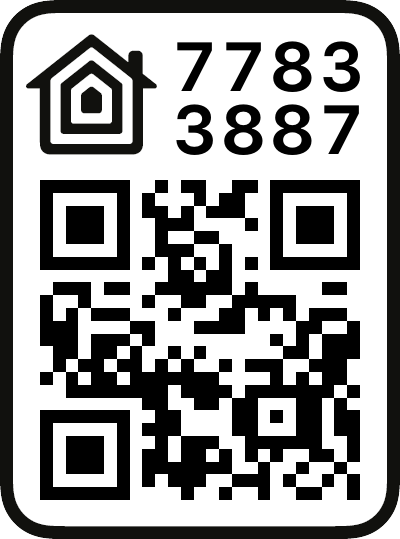
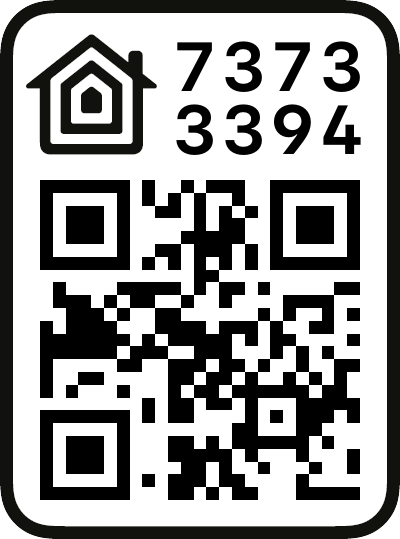
Update
Added new accessories

diff --git a/examples/security_system/main/main.c b/examples/security_system/main/main.c
@@ -34,8 +34,6 @@
 #include <homekit/homekit.h>
 #include <homekit/characteristics.h>
 
-#include <button.h>
-
 // WiFi setup
 void on_wifi_ready();
 
@@ -73,31 +71,17 @@ static void wifi_init() {
         ESP_ERROR_CHECK(esp_wifi_start());
 }
 
-#define BUTTON_GPIO CONFIG_ESP_BUTTON_GPIO
-
+// LED control
 #define LED_GPIO CONFIG_ESP_LED_GPIO
 bool led_on = false;
-
-#define RELAY_GPIO CONFIG_ESP_RELAY_GPIO
-bool relay_on = false;
-
-void lock_lock();
-void lock_unlock();
 
 void led_write(bool on) {
         gpio_set_level(LED_GPIO, on ? 1 : 0);
 }
-
-void relay_write(bool on) {
-        gpio_set_level(RELAY_GPIO, on ? 1 : 0);
-}
-
+// All GPIO Settings
 void gpio_init() {
         gpio_set_direction(LED_GPIO, GPIO_MODE_OUTPUT);
         led_write(led_on);
-
-        gpio_set_direction(RELAY_GPIO, GPIO_MODE_OUTPUT);
-        relay_write(relay_on);
 }
 
 // Accessory identification
@@ -119,99 +103,51 @@ void accessory_identify(homekit_value_t _value) {
         ESP_LOGI("ACCESSORY_IDENTIFY", "Accessory identify");
         xTaskCreate(accessory_identify_task, "Accessory identify", 2048, NULL, 2, NULL);
 }
-// Accessory identification
 
+void update_state();
 
+void on_update(homekit_characteristic_t *ch, homekit_value_t value, void *context) {
+        update_state();
+}
+homekit_characteristic_t security_system_current_state = HOMEKIT_CHARACTERISTIC_(SECURITY_SYSTEM_CURRENT_STATE, 0);
+homekit_characteristic_t security_system_target_state = HOMEKIT_CHARACTERISTIC_(SECURITY_SYSTEM_TARGET_STATE, 0, .callback=HOMEKIT_CHARACTERISTIC_CALLBACK(on_update));
 
-void button_callback(button_event_t event, void *context) {
-        switch (event) {
-        case button_event_single_press:
-                ESP_LOGI("SINGLE_PRESS", "single press");
-                lock_unlock();
-                break;
-        case button_event_double_press:
-                ESP_LOGI("DOUBLE_PRESS", "Double press");
+// 0 ”Stay Arm. The home is occupied and the residents are active. e.g. morning or evenings”
+// 1 ”Away Arm. The home is unoccupied”
+// 2 ”Night Arm. The home is occupied and the residents are sleeping”
+// 3 ”Disarmed”
+// 4 ”Alarm Triggered”
 
-                break;
-        case button_event_long_press:
-                ESP_LOGI("LONG_PRESS", "Long press");
-
-                break;
-        default:
-                ESP_LOGI("UNKNOWN_BUTTON_EVENT", "unknown button event: %d", event);
+void update_state() {
+        if (security_system_current_state.value.int_value != 1 && security_system_target_state.value.int_value == 1) {
+                security_system_current_state.value = HOMEKIT_UINT8(1);
+                ESP_LOGI("SECURITY_STYSTEM_AWAY_ARMED", "Security System Away - System Armed");
+                homekit_characteristic_notify(&security_system_current_state, security_system_current_state.value);
+        }
+        else if (security_system_current_state.value.int_value != 2 && security_system_target_state.value.int_value == 2) {
+                security_system_current_state.value = HOMEKIT_UINT8(2);
+                ESP_LOGI("SECURITY_STYSTEM_NIGHT_ARMED", "Security System Night - System Armed");
+                homekit_characteristic_notify(&security_system_current_state, security_system_current_state.value);
+        }
+        else if (security_system_current_state.value.int_value != 2 && security_system_target_state.value.int_value == 3) {
+                security_system_current_state.value = HOMEKIT_UINT8(3);
+                ESP_LOGI("SECURITY_STYSTEM_DISARMED", "Security System Night - System Disarmed");
+                homekit_characteristic_notify(&security_system_current_state, security_system_current_state.value);
+        }
+        else if (security_system_current_state.value.int_value != 2 && security_system_target_state.value.int_value == 4) {
+                security_system_current_state.value = HOMEKIT_UINT8(4);
+                printf("Security System Alarm Triggered.\n");
+                ESP_LOGI("SECURITY_STYSTEM_ALARM_TRIGGER", "Security System Alarm - Alarm trigger");
+                homekit_characteristic_notify(&security_system_current_state, security_system_current_state.value);
+        }
+        else if (security_system_current_state.value.int_value != 0 && security_system_target_state.value.int_value == 0) {
+                security_system_current_state.value = HOMEKIT_UINT8(0);
+                ESP_LOGI("SECURITY_STYSTEM_ARMED", "Security System Armed - System Armed");
+                homekit_characteristic_notify(&security_system_current_state, security_system_current_state.value);
         }
 }
 
-// The current state the physical security mechanism
-// 0 ”Unsecured” This state indicates that the lock is currently unsecured or unlocked. It means that the door or lock is not currently in a locked state.
-// 1 ”Secured” This state indicates that the lock is currently secured or locked. It means that the door or lock is in a locked state, providing security.
-// 2 ”Jammed” This state indicates that the lock is jammed or unable to move freely. It suggests that there might be a physical obstruction preventing the lock from functioning correctly.
-// 3 ”Unknown” This state indicates that the current state of the lock is unknown or cannot be determined. It might be used when the HomeKit system cannot reliably ascertain the current state of the lock.
-
-typedef enum {
-        lock_state_unsecured = 0,
-        lock_state_secured = 1,
-        lock_state_jammed = 2,
-        lock_state_unknown = 3,
-} lock_state_t;
-
-homekit_characteristic_t lock_current_state = HOMEKIT_CHARACTERISTIC_(LOCK_CURRENT_STATE,lock_state_unknown,);
-
-// The target state the physical security mechanism
-// 0 ”Unsecured” This state indicates that the lock is currently unsecured or unlocked. It means that the door or lock is not currently in a locked state.
-// 1 ”Secured” This state indicates that the lock is currently secured or locked. It means that the door or lock is in a locked state, providing security.
-
-void lock_target_state_setter(homekit_value_t value);
-
-homekit_characteristic_t lock_target_state = HOMEKIT_CHARACTERISTIC_(LOCK_TARGET_STATE,lock_state_secured,.setter=lock_target_state_setter,);
-
-void lock_target_state_setter(homekit_value_t value) {
-        lock_target_state.value = value;
-        if (value.int_value == lock_state_unsecured) {
-                lock_unlock();
-        } else {
-                lock_lock();
-        }
-}
-
-void lock_lock() {
-    relay_write(0);
-    led_write(0);
-    if (lock_current_state.value.int_value != lock_state_secured) {
-        lock_current_state.value = HOMEKIT_UINT8(lock_state_secured);
-        homekit_characteristic_notify(&lock_current_state, lock_current_state.value);
-    }
-}
-
-void lock_timeout() {
-    if (lock_target_state.value.int_value != lock_state_secured) {
-        lock_target_state.value = HOMEKIT_UINT8(lock_state_secured);
-        homekit_characteristic_notify(&lock_target_state, lock_target_state.value);
-    }
-    lock_lock();
-}
-
-void lock_init() {
-    lock_current_state.value = HOMEKIT_UINT8(lock_state_secured);
-    homekit_characteristic_notify(&lock_current_state, lock_current_state.value);
-    lock_timeout();
-}
-
-void lock_unlock() {
-    relay_write(1);
-    led_write(1);
-    lock_current_state.value = HOMEKIT_UINT8(lock_state_unsecured);
-    homekit_characteristic_notify(&lock_current_state, lock_current_state.value);
-    vTaskDelay(pdMS_TO_TICKS(1000 * CONFIG_ESP_LOCK_OPEN)); // Delay
-    lock_init();
-}
-
-//vTaskDelay(pdMS_TO_TICKS(1000 * CONFIG_ESP_LOCK_OPEN)); // Delay
-void lock_control_point(homekit_value_t value) {
-        // Nothing to do here
-}
-
-#define DEVICE_NAME "HomeKit Lock Mechanism"
+#define DEVICE_NAME "HomeKit Security System"
 #define DEVICE_MANUFACTURER "StudioPieters®"
 #define DEVICE_SERIAL "NLDA4SQN1466"
 #define DEVICE_MODEL "SD466NL/A"
@@ -223,10 +159,11 @@ homekit_characteristic_t serial = HOMEKIT_CHARACTERISTIC_(SERIAL_NUMBER, DEVICE_
 homekit_characteristic_t model = HOMEKIT_CHARACTERISTIC_(MODEL, DEVICE_MODEL);
 homekit_characteristic_t revision = HOMEKIT_CHARACTERISTIC_(FIRMWARE_REVISION, FW_VERSION);
 
+
 #pragma GCC diagnostic push
 #pragma GCC diagnostic ignored "-Woverride-init"
 homekit_accessory_t *accessories[] = {
-        HOMEKIT_ACCESSORY(.id = 1, .category = homekit_accessory_category_locks, .services = (homekit_service_t*[]) {
+        HOMEKIT_ACCESSORY(.id = 1, .category = homekit_accessory_category_security_systems, .services = (homekit_service_t*[]) {
                 HOMEKIT_SERVICE(ACCESSORY_INFORMATION, .characteristics = (homekit_characteristic_t*[]) {
                         &name,
                         &manufacturer,
@@ -236,27 +173,17 @@ homekit_accessory_t *accessories[] = {
                         HOMEKIT_CHARACTERISTIC(IDENTIFY, accessory_identify),
                         NULL
                 }),
-                HOMEKIT_SERVICE(LOCK_MECHANISM, .primary=true, .characteristics=(homekit_characteristic_t*[]){
-                        HOMEKIT_CHARACTERISTIC(NAME, "Lock Mechanism"),
-                        &lock_current_state,
-                        &lock_target_state,
-                        NULL
-                }),
-                HOMEKIT_SERVICE(LOCK_MANAGEMENT, .characteristics=(homekit_characteristic_t*[]){
-                        HOMEKIT_CHARACTERISTIC(
-                                LOCK_CONTROL_POINT,
-                                .setter=lock_control_point
-                                ),
-                        HOMEKIT_CHARACTERISTIC(
-                                VERSION, "1"),
+                HOMEKIT_SERVICE(SECURITY_SYSTEM, .primary=true, .characteristics=(homekit_characteristic_t*[]) {
+                        HOMEKIT_CHARACTERISTIC(NAME, "HomeKit Security System"),
+                        &security_system_current_state,
+                        &security_system_target_state,
+
                         NULL
                 }),
                 NULL
         }),
         NULL
 };
-
-
 
 #pragma GCC diagnostic pop
 
@@ -280,18 +207,4 @@ void app_main(void) {
 
         wifi_init();
         gpio_init();
-        lock_init();
-
-        #pragma GCC diagnostic push
-        #pragma GCC diagnostic ignored "-Woverride-init"
-        button_config_t button_config = BUTTON_CONFIG(
-                button_active_low,
-                .max_repeat_presses=2,
-                .long_press_time=1000,
-                );
-        #pragma GCC diagnostic pop
-
-        if (button_create(BUTTON_GPIO, button_config, button_callback, NULL)) {
-                ESP_LOGI("FAILED_TO_INITIALIZE_BUTTON", "Failed to initialize button");
-        }
 }
